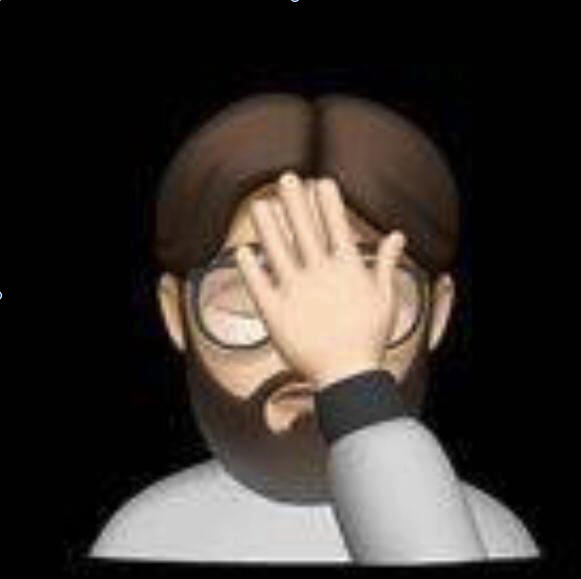
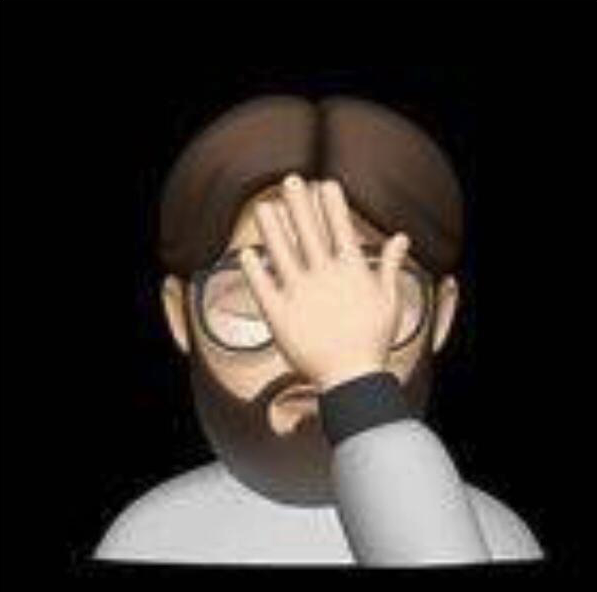
image css update

diff --git a/public/index.html b/public/index.html
@@ -2,14 +2,14 @@
 <html lang="en">
   <head>
     <meta charset="utf-8" />
-    <link rel="icon" href="%PUBLIC_URL%/logo.jpg" />
+    <link rel="icon" href="%PUBLIC_URL%/logo.png" />
     <meta name="viewport" content="width=device-width, initial-scale=1" />
     <meta name="theme-color" content="#000000" />
     <meta
       name="Ivan's countdown"
       content="Web site created using create-react-app"
     />
-    <link rel="apple-touch-icon" href="%PUBLIC_URL%/logo.jpg" />
+    <link rel="apple-touch-icon" href="%PUBLIC_URL%/logo.png" />
     <!--
       manifest.json provides metadata used when your web app is installed on a
       user's mobile device or desktop. See https://developers.google.com/web/fundamentals/web-app-manifest/

diff --git a/src/Pages/HelloThere.js b/src/Pages/HelloThere.js
@@ -1,6 +1,7 @@
 import React from "react";
 import '../bootstrap.min.css'
-import picture from '../images/PHOTO-2022-06-20-15-05-41.jpg'
+import '../Pages/HelloThere.css'
+import picture from '../images/PHOTO-2022-06-20-15-05-41.png'
 
 function HelloThere() {
   return (
@@ -26,7 +27,7 @@ function HelloThere() {
               commodo. <a href="/" className="alert-link">what are looking for?
               </a>.</p>
 
-          <div className=''>
+          <div className='image'>
               <img src={picture} alt="Logo"/>
           </div>
 

diff --git a/src/Pages/HelloThere.css b/src/Pages/HelloThere.css
@@ -1,0 +1,10 @@
+img {
+    display: block;
+    width: 200px;
+    height: 300px;
+    object-fit: cover;
+    position: center;
+    object-position: center;
+    margin-left: auto;
+    margin-right: auto;
+}
